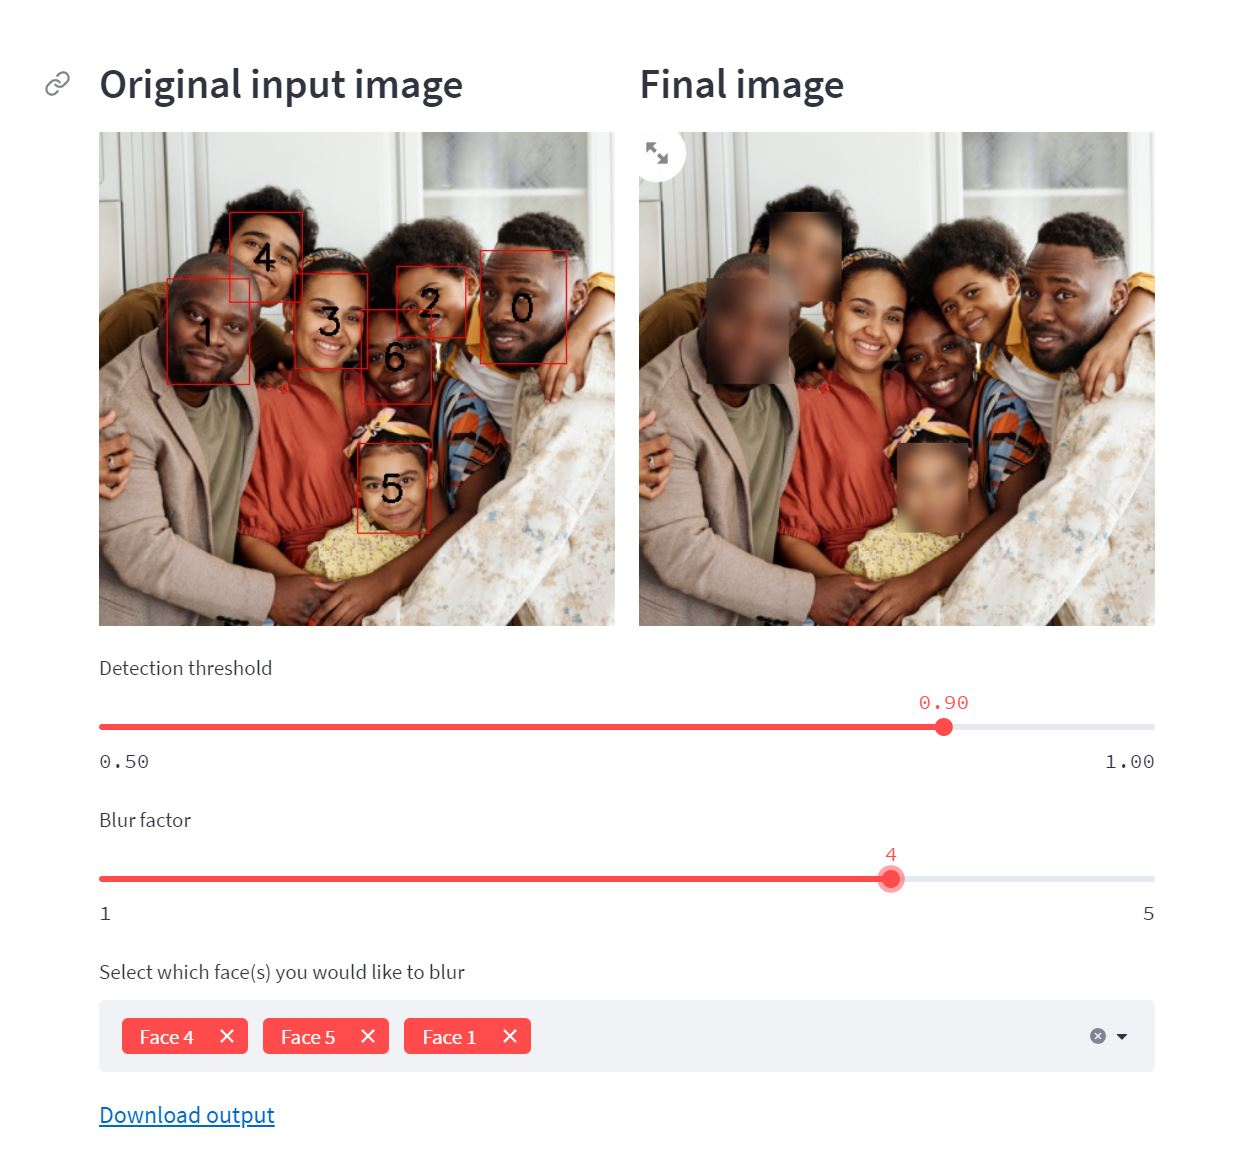
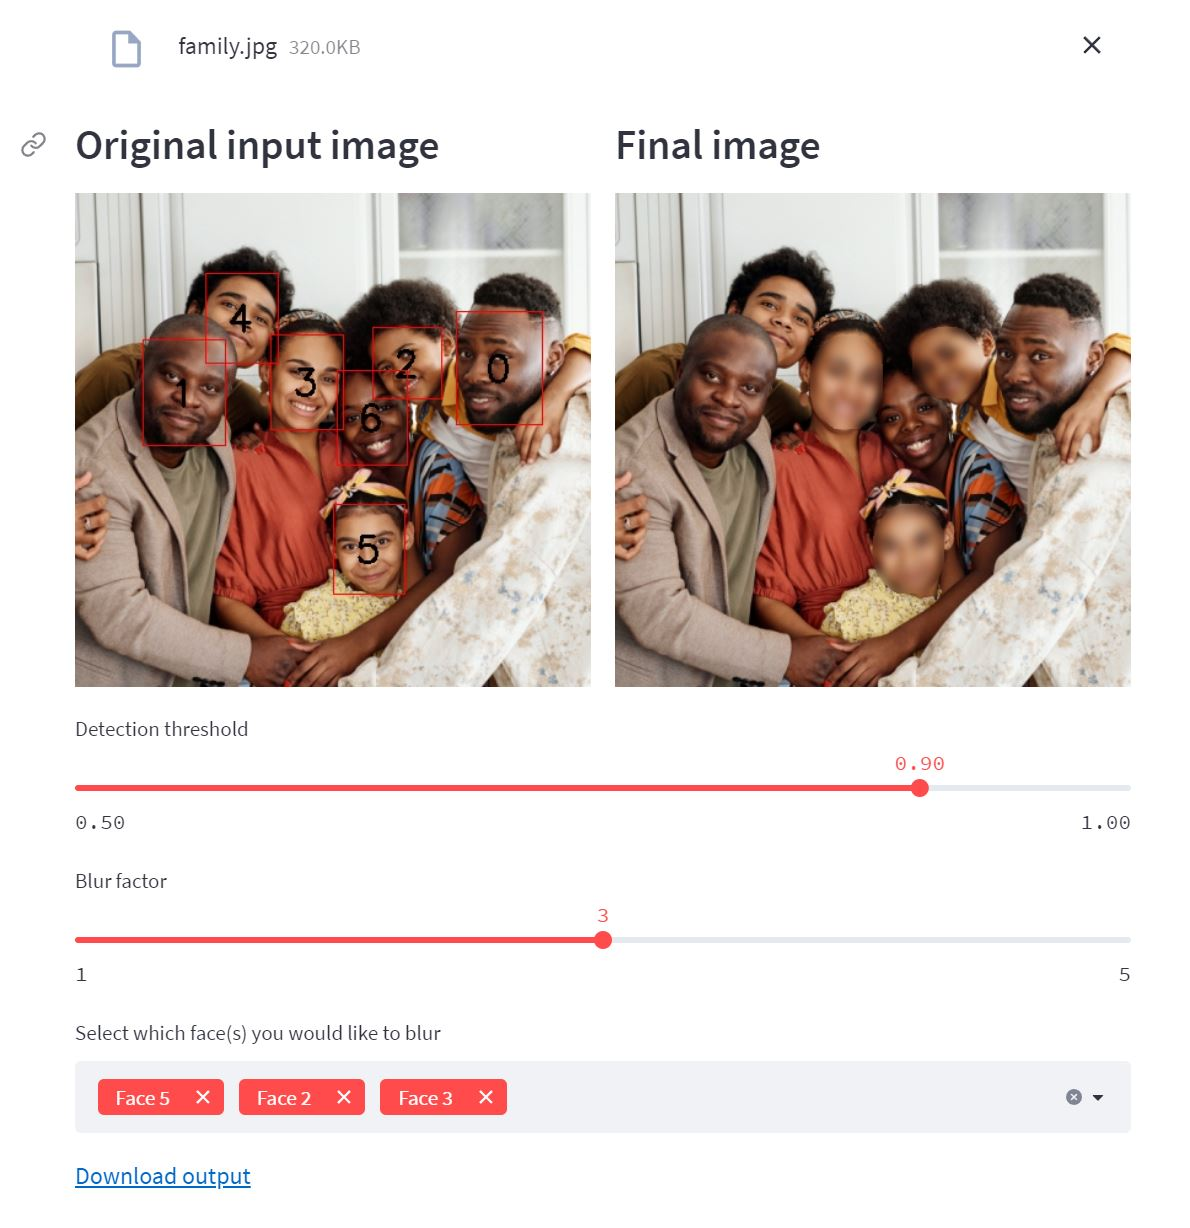
Faces are now blurred using an elliptical mask

diff --git a/src/streamlit/FaceBlurApp.py b/src/streamlit/FaceBlurApp.py
@@ -34,7 +34,7 @@ class FaceBlurApp:
             detection_threshold = streamlit.slider('Detection threshold', 0.5, 1.0, 0.75)
             blur_factor = streamlit.slider('Blur factor', self.__min_blur_factor, self.__max_blur_factor, self.__min_blur_factor)
 
-            input_image, faces = self.__generateFaceBlurRect(image, detections, detection_threshold)
+            input_image, faces = self.__generateFaceBlurBounds(image, detections, detection_threshold)
 
             with input_col:
                 streamlit.subheader('Original input image')
@@ -70,11 +70,11 @@ class FaceBlurApp:
         href = f'<a href="data:file/txt;base64,{img_str}" download="{filename}">Download output</a>'
         return href
 
-    def __generateFaceBlurRect(self, image, detections, threshold):
+    def __generateFaceBlurBounds(self, image, detections, threshold):
         height, width = image.shape[:2]
         input_image = image.copy()
         face_count = 0
-        selected_faces_data = []
+        detected_faces_data = []
 
         for i in range(detections.shape[2]):
             confidence = detections[0, 0, i, 2]
@@ -87,24 +87,32 @@ class FaceBlurApp:
                 cv2.putText(input_image, str(face_count), txt_coords, cv2.FONT_HERSHEY_SIMPLEX, 1, (0,0,0), 2, 2)
                 cv2.rectangle(input_image, (x1,y1), (x2,y2), (0,0,255), 1, 1)
 
-                selected_faces_data.append(['Face ' + str(face_count), x1, y1, x2, y2])
+                detected_faces_data.append(['Face ' + str(face_count), x1, y1, x2, y2])
                 face_count += 1
         
-        return input_image, selected_faces_data
+        return input_image, detected_faces_data
     
     def __blurFaces(self, image, faces, factor):
         output_image = image.copy()
-
+        blurred_image = image.copy()
+        ellipse_mask = np.zeros(image.shape, dtype=image.dtype)
         for data in faces:
-            x1 = data[1]
-            y1 = data[2]
-            x2 = data[3]
-            y2 = data[4]
+            x1 = int(data[1])
+            y1 = int(data[2])
+            x2 = int(data[3])
+            y2 = int(data[4])
 
-            face = output_image[y1:y2, x1:x2]
+            face = output_image[y1:y2, x1:x2, :]
             face = self.__blurFace(face, factor)
 
-            output_image[y1:y2, x1:x2] = face
+            blurred_image[y1:y2, x1:x2, :] = face
+
+            e_center = ((x2-x1)/2 + x1, (y2-y1)/2 + y1)
+            e_size = (x2 - x1, y2 - y1)
+            e_angle = 0.0
+
+            ellipse_mask = cv2.ellipse(ellipse_mask, (e_center, e_size, e_angle), (255, 255, 255), -1, cv2.LINE_AA)
+            np.putmask(output_image, ellipse_mask, blurred_image)
 
         return output_image
     
